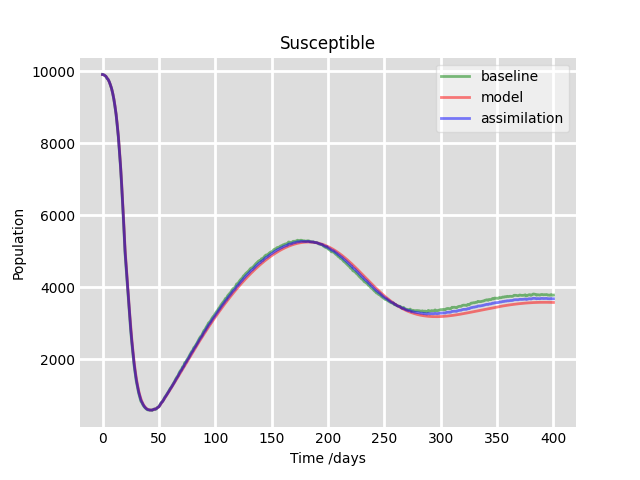
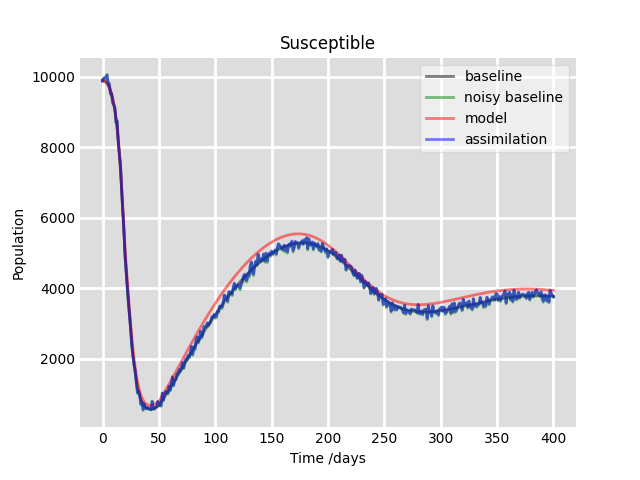
data assimilation comparison

diff --git a/src/data_assimilation.py b/src/data_assimilation.py
@@ -6,13 +6,20 @@ import matplotlib.pyplot as plt
 
 LABELS = ["Susceptible","Exposed","Infected","Fatalities","Recovered"]
 
-def assimilate(baseline, deviation, surogate, baseline_var, surogate_var):
+def apply_noise(model, deviation):
+    noisy_model = {}
+    for label in LABELS:
+        serie = model[label].to_numpy()
+        noise = np.random.normal(0,deviation,serie.shape[0])
+        noisy_model[label] = serie + noise
+    return noisy_model
+
+
+def assimilate(noisy_baseline, surogate, baseline_var, surogate_var):
     results = {}
     for label in LABELS:
-        background = baseline[label].to_numpy()
-        # add noise
-        noise = np.random.normal(0,deviation,background.shape[0])
-        background = background + noise
+        background = noisy_baseline[label]
+        
         observation = surogate[label].to_numpy()
 
         operator = np.identity(observation.shape[0])
@@ -23,7 +30,7 @@ def assimilate(baseline, deviation, surogate, baseline_var, surogate_var):
         case.set( 'Background',          Vector = background )
         case.set( 'BackgroundError',     ScalarSparseMatrix = baseline_var)       
         case.set( 'Observation',         Vector = observation )
-        case.set( 'ObservationError',     ScalarSparseMatrix = baseline_var)       
+        case.set( 'ObservationError',     ScalarSparseMatrix = surogate_var)       
         case.set( 'ObservationOperator', Matrix = operator )
         case.execute()
 
@@ -39,24 +46,25 @@ OUTPUT_DIRECTORY_PATH = "../output"
 if __name__=="__main__":
 
     baseline = pd.read_csv(f'{OUTPUT_DIRECTORY_PATH}/baseline.csv')
-    model_alpha = pd.read_csv(f'{OUTPUT_DIRECTORY_PATH}/model_alpha.csv')
+    surogate = pd.read_csv(f'{OUTPUT_DIRECTORY_PATH}/surogate.csv')
 
+    noisy_baseline = apply_noise(baseline, deviation=100)
 
-    SEIDR = assimilate(baseline, deviation=10, surogate=model_alpha, baseline_var=1, surogate_var=1)
+    SEIDR = assimilate(noisy_baseline, surogate=surogate, baseline_var=1, surogate_var=10)
     # print(type(SEIDR[0]))
     
 
     for label, result in zip(LABELS, SEIDR):        
-        background = baseline[label].to_numpy()
+        background = noisy_baseline[label]
 
-        background = background
-        observation = model_alpha[label].to_numpy()
+        observation = surogate[label].to_numpy()
         t = np.arange(observation.shape[0])
 
         # plot
         fig = plt.figure(facecolor='w')
         ax = fig.add_subplot(111, facecolor='#dddddd', axisbelow=True)
-        ax.plot(t, background, 'green', alpha=0.5, lw=2, label=f'baseline')
+        ax.plot(t, baseline[label], 'black', alpha=0.5, lw=2, label=f'baseline')
+        ax.plot(t, background, 'green', alpha=0.5, lw=2, label=f'noisy baseline')
         ax.plot(t, observation, 'red', alpha=0.5, lw=2, label=f'model')
         ax.plot(t, result, 'blue', alpha=0.5, lw=2, label=f'assimilation')
         ax.set_xlabel('Time /days')

diff --git a/src/seidr.py b/src/seidr.py
@@ -46,10 +46,16 @@ class Model(abc.ABC):
         if self.results is None:
             raise ModelResultsNotCalculatedError()
 
+        df = self.to_pandas()
+        df.to_csv(f"{OUTPUT_DIRECTORY_PATH}/{self.name}.csv")
+
+    def to_pandas(self):
+        if self.results is None:
+            raise ModelResultsNotCalculatedError()
         S, E, I, D, R = self.results.T
         results = zip( S, E, I, D, R)
         df = pd.DataFrame(results, columns=["Susceptible", "Exposed", "Infected", "Fatalities", "Recovered"])
-        df.to_csv(f"{OUTPUT_DIRECTORY_PATH}/{self.name}.csv")
+        return df
 
     def get_final_fatalities(self):
         if self.results is None:
@@ -75,7 +81,9 @@ class SEIDR(Model):
                 epsilon = 0.2, 
                 alpha = 0.01, 
                 delta = 0.01,
-                no_of_days = 400):
+                no_of_days = 400,
+                sampling_frequency = 1.0
+                ):
         super().__init__(name)
         # Susceptible
         self.S0 = S
@@ -105,7 +113,9 @@ class SEIDR(Model):
         self.delta = delta
 
         self.no_of_days = no_of_days
-        self.t = np.linspace(0, no_of_days, no_of_days+1)
+
+        sample_num = round(no_of_days/sampling_frequency)
+        self.t = np.linspace(0, no_of_days, sample_num+1)
     
 
     def _deriv(self, y, t):
